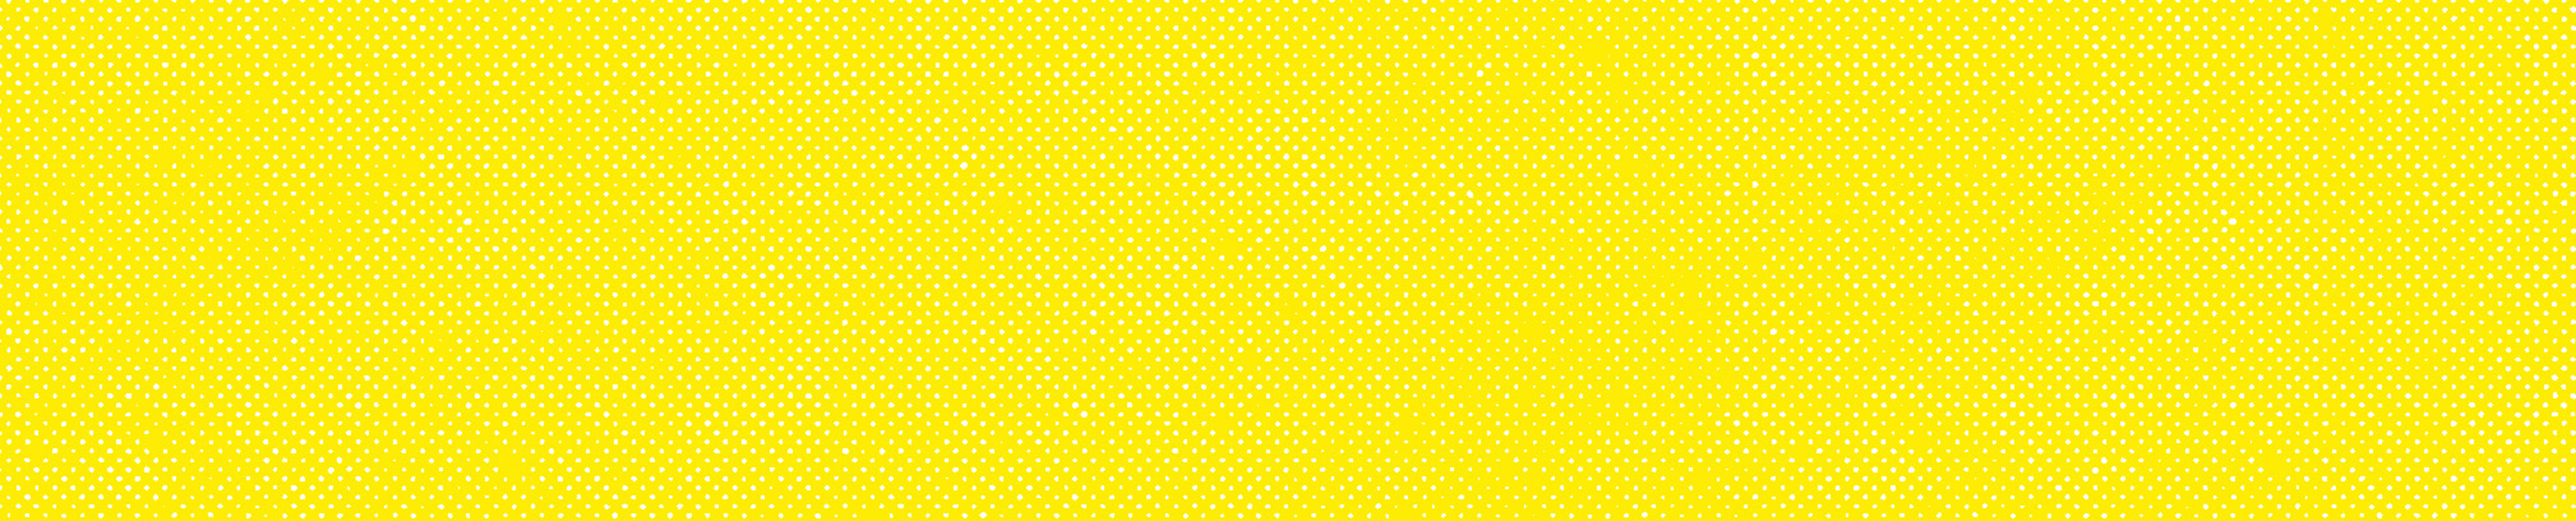
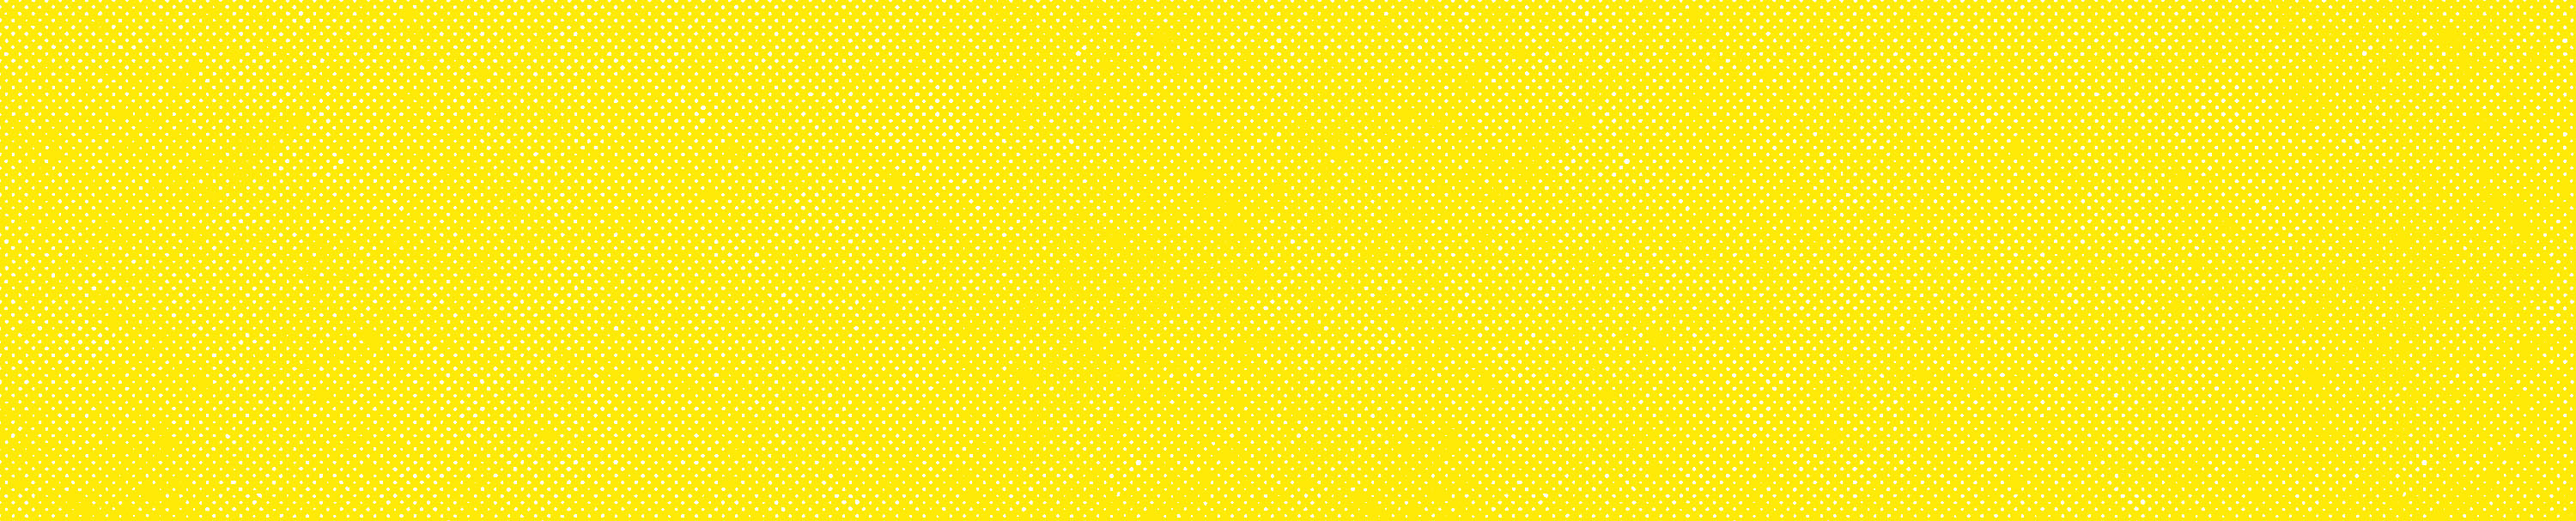
et hop de la trame en petit, mais grand

Changed region(s): [[0.0, 0.0, 1.0, 1.0]]

diff --git a/src/components/partenaires.js b/src/components/partenaires.js
@@ -1,8 +1,7 @@
 import React from "react";
 import { useStaticQuery, graphql } from "gatsby";
-import Img from "gatsby-image";
+import { GatsbyImage, getImage } from "gatsby-plugin-image";
 
-import partenaires from "../../media/partenaires.jpg";
 const partnaire_container = {
   position: "relative",
   maxWidth: "850px",
@@ -18,7 +17,7 @@ const partenaires_style = {
 };
 
 const elem_style = {
-  padding: "0.1em",
+  paddingBottom: "0.6em",
 };
 
 export function Partenaires() {
@@ -31,9 +30,7 @@ export function Partenaires() {
               extension
               relativePath
               childImageSharp {
-                fixed(height: 45) {
-                  ...GatsbyImageSharpFixed
-                }
+                gatsbyImageData(height: 45, layout: FIXED)
               }
             }
           }
@@ -45,11 +42,15 @@ export function Partenaires() {
   return (
     <div style={partnaire_container}>
       <div style={partenaires_style}>
-        {allFile.edges.map(({ node }) => (
-          <div style={elem_style}>
-            <Img fixed={node.childImageSharp.fixed} />
-          </div>
-        ))}
+        {allFile.edges.map(({ node }) => {
+          const img = getImage(node.childImageSharp.gatsbyImageData);
+          return (
+            <div style={elem_style}>
+              <GatsbyImage image={img} alt="partenaires" />
+              {/* <Img fixed={node.childImageSharp.fixed} /> */}
+            </div>
+          );
+        })}
       </div>
     </div>
   );

diff --git a/src/pages/inscription.js b/src/pages/inscription.js
@@ -46,9 +46,9 @@ export default function Inscription() {
               <SelectMD className="md_style" node={node} />
             ))}
           </div>
-          <div style={partnaire_img}>
+          {/* <div style={partnaire_img}>
             <StaticImage src="../../media/partenaires.jpg" alt="partenaires" />
-          </div>
+          </div> */}
 
           <Partenaires />
         </Layout>

diff --git a/src/components/header.js b/src/components/header.js
@@ -74,7 +74,11 @@ export function Header({ max_width, margin }) {
   );
 
   return (
-    <BackgroundMedia height="140px" data_query={bg_header}>
+    <BackgroundMedia
+      height="140px"
+      data_query={bg_header}
+      default_color="#feec04"
+    >
       <div style={style_h_bar}>
         <div className="h_bar_logo">
           <Button where="/">

diff --git a/src/pages/index.js b/src/pages/index.js
@@ -36,9 +36,11 @@ const IndexPage = () => {
   };
 
   let height_intro = "320px";
-  console.log("useWidth()", useWidth());
   if (useWidth() < 650) {
     height_intro = "450px";
+  }
+  if (useWidth() < 500) {
+    height_intro = "550px";
   }
 
   return (
